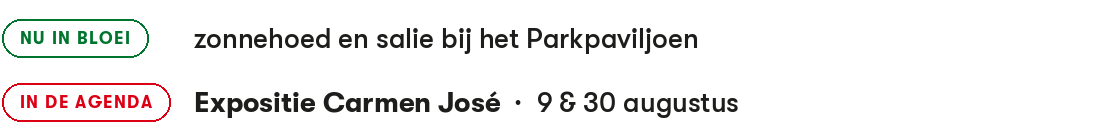
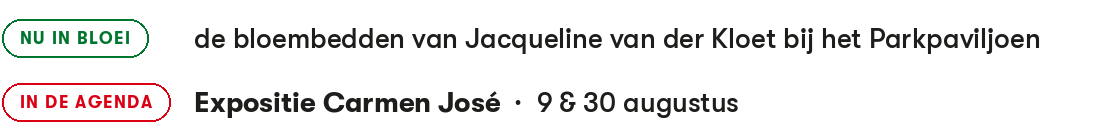
Handtekening ververst 2026-08-16

Changed region(s): [[0.1562, 0.2, 0.9375, 0.3714]]

diff --git a/docs/index.html b/docs/index.html
@@ -51,7 +51,7 @@
 </head>
 <body>
 <h1>E-mailhandtekening van het Park</h1>
-<p class="sub">Ververst zichzelf elke ochtend · laatst bijgewerkt op 15 augustus 2026</p>
+<p class="sub">Ververst zichzelf elke ochtend · laatst bijgewerkt op 16 augustus 2026</p>
 <div id="melding"></div>
 
 <div class="kader" id="sleutelkaart" hidden>
@@ -109,7 +109,7 @@ de handtekening wisselt elke dag tussen deze regels.</p>
 <p class="klein">Klopt er iets niet, of bloeit er iets nieuws? Hoveniers werken de kalender bij op de
 <a href="beheer.html">beheerpagina</a>.</p>
 
-<p class="klein" style="margin-top:28px">Vandaag: "Nu in bloei: zonnehoed en salie bij het Parkpaviljoen" en "In de agenda: Expositie Carmen José · 9 & 30 augustus".
+<p class="klein" style="margin-top:28px">Vandaag: "Nu in bloei: de bloembedden van Jacqueline van der Kloet bij het Parkpaviljoen" en "In de agenda: Expositie Carmen José · 9 & 30 augustus".
 · <a href="handtekening.txt">tekstversie</a></p>
 
 <script>
